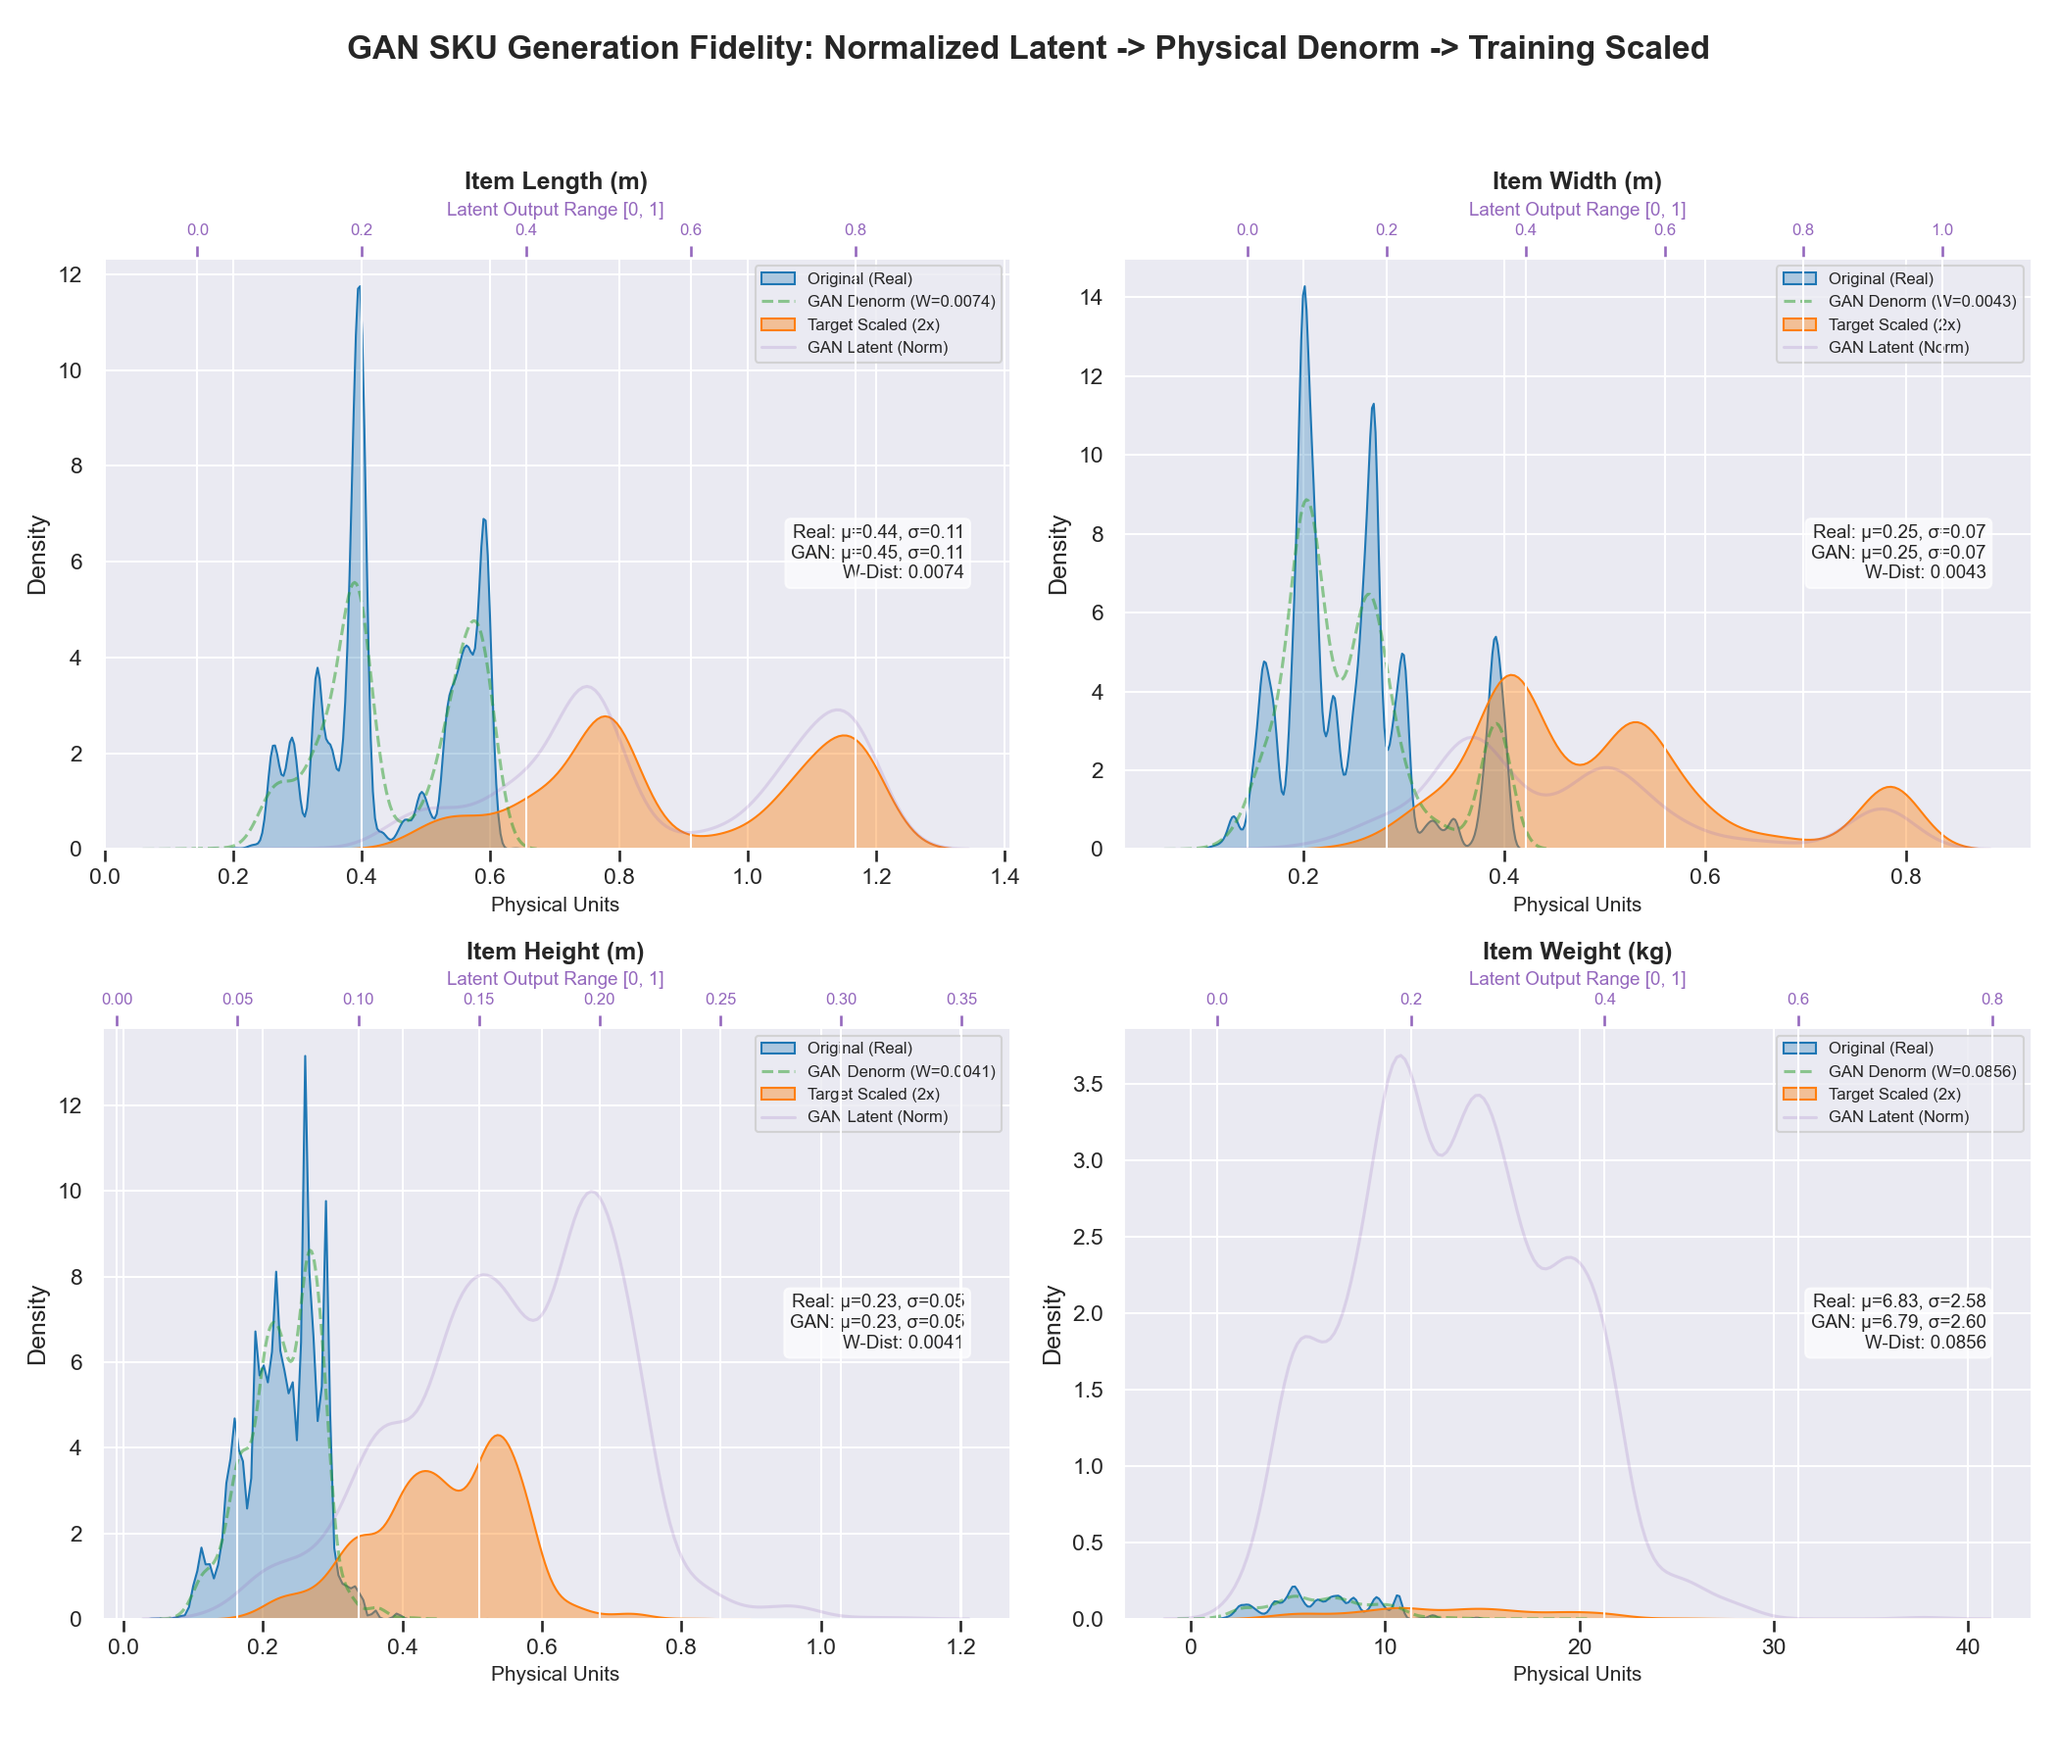
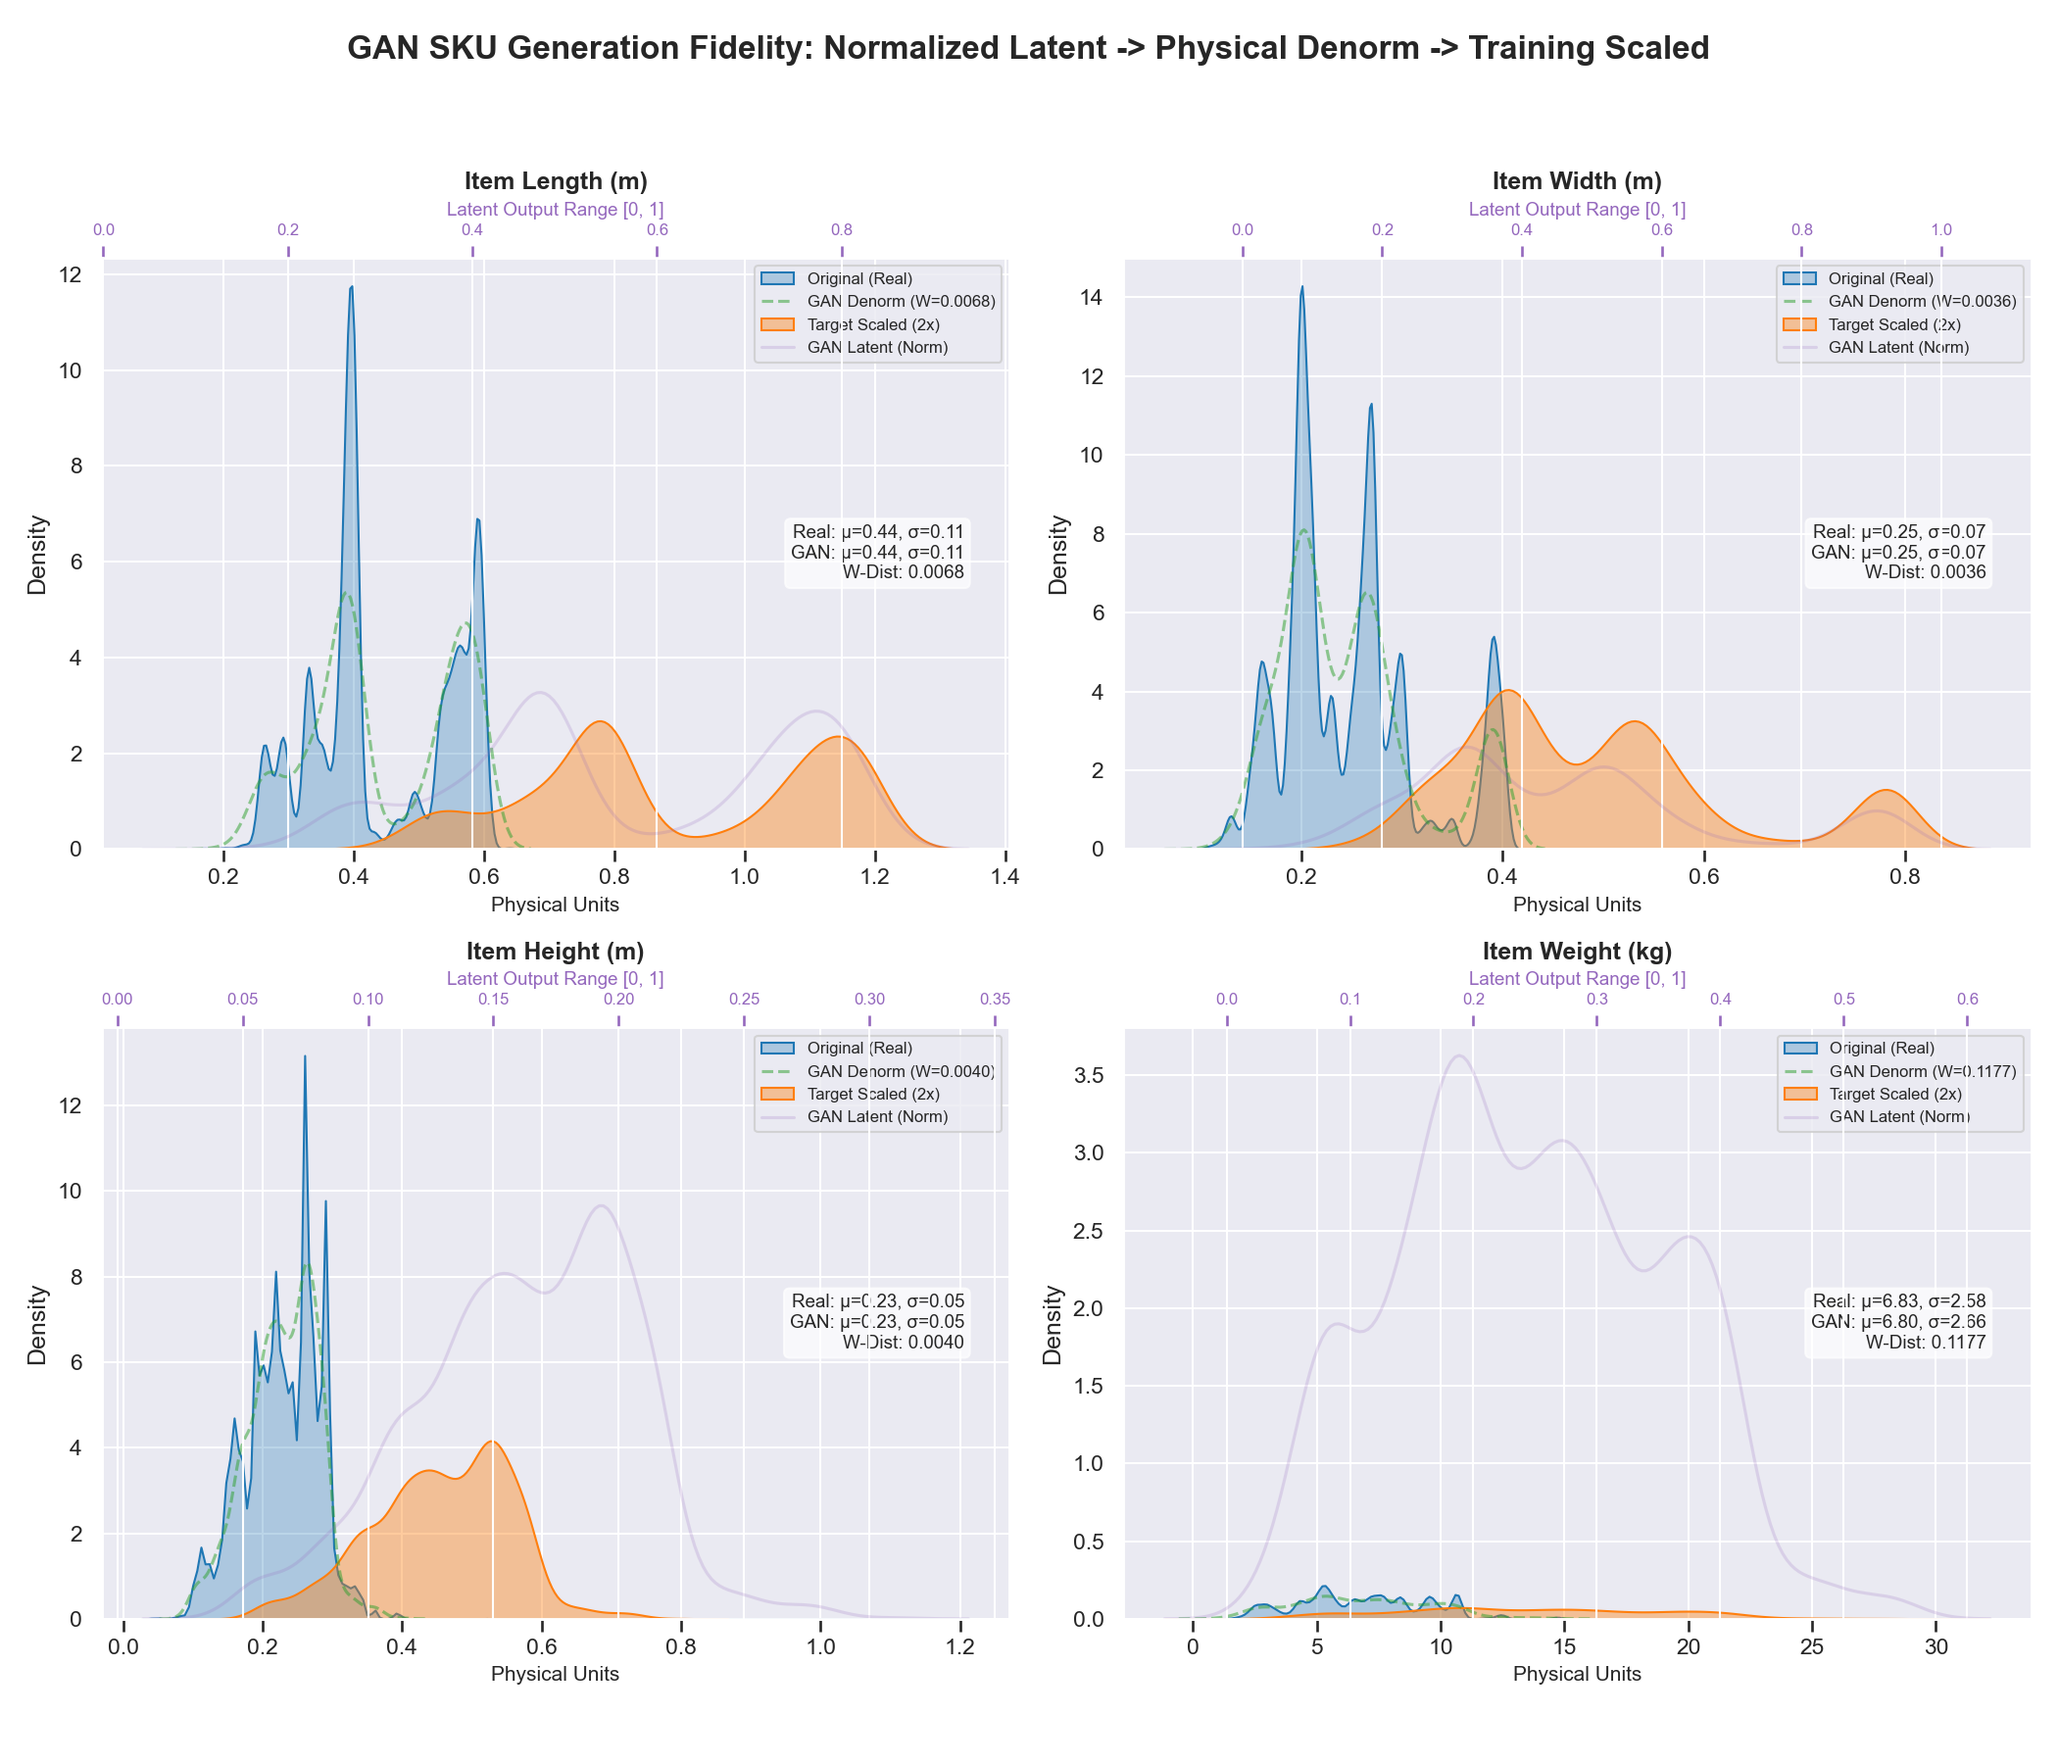
refactor: reorganize sample fidelity dashboard tables to group physical attributes and SKU metadata

diff --git a/evaluate_metrics.py b/evaluate_metrics.py
@@ -839,8 +839,8 @@ def generate_gan_metrics_report():
         
         lines.append("\n*(Format: Length, Width, Height, Weight)*\n")
         
-        lines.append("\n## 5. Sample Fidelity Dashboard (Compact Matrix)")
-        lines.append("This section maps the transformation of 5 random samples from their physical source to the latent model space and back to the reconstructed synthetic item.\n")
+        lines.append("\n## 5. Sample Fidelity Dashboard (Organized)")
+        lines.append("This section tracks 5 random items throughout the synthetic lifecycle, with attributes grouped by physical dimensions and SKU metadata.\n")
         
         orig_df = samples["original_df"]
         for i in range(5):
@@ -848,17 +848,17 @@ def generate_gan_metrics_report():
             n = samples["synth_norm"][i]
             d = samples["synth_denorm"][i]
             
-            lines.append(f"### Sample {i+1} Fidelity Trace")
-            lines.append("| Attribute | Real Value | Latent [0-1] | Reconstructed | Type / Unit |")
-            lines.append("|:---|:---:|:---:|:---:|:---|")
-            lines.append(f"| **Length**     | {o_row['length']:.3f} | {n[0]:.6f} | {d[0]:.3f} | f32 / meters |")
-            lines.append(f"| **Width**      | {o_row['width']:.3f} | {n[1]:.6f} | {d[1]:.3f} | f32 / meters |")
-            lines.append(f"| **Height**     | {o_row['height']:.3f} | {n[2]:.6f} | {d[2]:.3f} | f32 / meters |")
-            lines.append(f"| **Weight**     | {o_row['weight']:.3f} | {n[3]:.6f} | {d[3]:.3f} | f32 / kg     |")
-            lines.append(f"| Category       | {o_row['category']} | -- | -- | obj / str    |")
-            lines.append(f"| Fragility      | {bool(o_row['fragility'])} | -- | -- | i64 / bool   |")
-            lines.append(f"| Stackable      | {bool(o_row['stackable'])} | -- | -- | i64 / bool   |")
-            lines.append(f"| Can Rotate     | {bool(o_row['can_rotate'])} | -- | -- | i64 / bool   |")
+            lines.append(f"### Sample {i+1} Fidelity Profile")
+            lines.append("| Component | Attribute | Original (Real) | GAN Latent [0-1] | GAN Denormalized | Metadata |")
+            lines.append("| :--- | :--- | :---: | :---: | :---: | :--- |")
+            lines.append(f"| **Physical** | Length     | {o_row['length']:.3f} | {n[0]:.6f} | {d[0]:.3f} | meters (f32) |")
+            lines.append(f"| **Physical** | Width      | {o_row['width']:.3f}  | {n[1]:.6f} | {d[1]:.3f} | meters (f32) |")
+            lines.append(f"| **Physical** | Height     | {o_row['height']:.3f} | {n[2]:.6f} | {d[2]:.3f} | meters (f32) |")
+            lines.append(f"| **Physical** | Weight     | {o_row['weight']:.3f} | {n[3]:.6f} | {d[3]:.3f} | kg (f32)     |")
+            lines.append(f"| **SKU Meta** | Category   | {o_row['category']}   | -- | -- | object (str) |")
+            lines.append(f"| **SKU Meta** | Fragility  | {bool(o_row['fragility'])} | -- | -- | int64 (bool) |")
+            lines.append(f"| **SKU Meta** | Stackable  | {bool(o_row['stackable'])} | -- | -- | int64 (bool) |")
+            lines.append(f"| **SKU Meta** | Can Rotate | {bool(o_row['can_rotate'])} | -- | -- | int64 (bool) |")
             lines.append("\n---\n")
 
 

diff --git a/Documents/04_Machine_Learning/Performance_Metrics/model_metrics_gan.md b/Documents/04_Machine_Learning/Performance_Metrics/model_metrics_gan.md
@@ -1,6 +1,6 @@
 # GAN Performance & Generation Report
 
-> Auto-generated on **2026-03-31 05:28**
+> Auto-generated on **2026-03-31 05:33**
 
 ---
 
@@ -40,10 +40,10 @@ Comparing Gaussian density overlaps and statistical moments between real and syn
 
 | Dimension | Real Mean (μ) | GAN Mean (μ) | Real Std (σ) | GAN Std (σ) | Wasserstein Dist |
 |:---|:---:|:---:|:---:|:---:|:---:|
-| Item Length | 0.443 | 0.447 | 0.108 | 0.108 | **0.00744** |
-| Item Width | 0.248 | 0.249 | 0.069 | 0.068 | **0.00430** |
-| Item Height | 0.227 | 0.230 | 0.053 | 0.050 | **0.00410** |
-| Item Weight | 6.827 | 6.793 | 2.579 | 2.598 | **0.08562** |
+| Item Length | 0.443 | 0.445 | 0.108 | 0.110 | **0.00684** |
+| Item Width | 0.248 | 0.247 | 0.069 | 0.068 | **0.00364** |
+| Item Height | 0.227 | 0.228 | 0.053 | 0.050 | **0.00405** |
+| Item Weight | 6.827 | 6.797 | 2.579 | 2.665 | **0.11774** |
 
 > **Note**: A lower Wasserstein Distance indicates higher distributional realism.
 
@@ -55,84 +55,84 @@ This table provides a 4-way comparison of 5 random item samples tracking the syn
 
 | Sample | Original (Real) | GAN Normalized [0-1] | GAN Denormalized | Synthetic (2x Scaled) |
 |:---|:---|:---|:---|:---|
-| 1 | (0.59, 0.20, 0.21, 7.7) | (0.383, 0.322, 0.213, 0.196) | (0.33, 0.20, 0.29, 5.6) | (0.67, 0.41, 0.57, 11.1) |
-| 2 | (0.55, 0.28, 0.11, 8.4) | (0.479, 0.926, 0.126, 0.159) | (0.39, 0.40, 0.19, 4.6) | (0.78, 0.79, 0.37, 9.3) |
-| 3 | (0.55, 0.28, 0.11, 8.4) | (0.382, 0.336, 0.216, 0.187) | (0.33, 0.21, 0.29, 5.3) | (0.67, 0.42, 0.58, 10.7) |
-| 4 | (0.49, 0.13, 0.21, 5.1) | (0.447, 0.401, 0.200, 0.207) | (0.37, 0.23, 0.27, 5.8) | (0.75, 0.46, 0.54, 11.7) |
-| 5 | (0.49, 0.13, 0.21, 5.1) | (0.263, 0.191, 0.139, 0.083) | (0.26, 0.16, 0.20, 2.7) | (0.52, 0.32, 0.40, 5.5) |
+| 1 | (0.59, 0.20, 0.21, 7.7) | (0.415, 0.314, 0.188, 0.145) | (0.35, 0.20, 0.26, 4.3) | (0.71, 0.40, 0.52, 8.6) |
+| 2 | (0.55, 0.28, 0.11, 8.4) | (0.361, 0.276, 0.216, 0.151) | (0.32, 0.19, 0.29, 4.5) | (0.64, 0.38, 0.58, 8.9) |
+| 3 | (0.55, 0.28, 0.11, 8.4) | (0.380, 0.278, 0.218, 0.172) | (0.33, 0.19, 0.29, 5.0) | (0.66, 0.38, 0.58, 9.9) |
+| 4 | (0.49, 0.13, 0.21, 5.1) | (0.468, 0.577, 0.150, 0.162) | (0.39, 0.28, 0.21, 4.7) | (0.77, 0.57, 0.43, 9.4) |
+| 5 | (0.49, 0.13, 0.21, 5.1) | (0.799, 0.308, 0.150, 0.246) | (0.59, 0.20, 0.21, 6.8) | (1.17, 0.40, 0.43, 13.6) |
 
 *(Format: Length, Width, Height, Weight)*
 
 
-## 5. Sample Fidelity Dashboard (Compact Matrix)
-This section maps the transformation of 5 random samples from their physical source to the latent model space and back to the reconstructed synthetic item.
+## 5. Sample Fidelity Dashboard (Organized)
+This section tracks 5 random items throughout the synthetic lifecycle, with attributes grouped by physical dimensions and SKU metadata.
 
-### Sample 1 Fidelity Trace
-| Attribute | Real Value | Latent [0-1] | Reconstructed | Type / Unit |
-|:---|:---:|:---:|:---:|:---|
-| **Length**     | 0.590 | 0.382591 | 0.333 | f32 / meters |
-| **Width**      | 0.200 | 0.322347 | 0.203 | f32 / meters |
-| **Height**     | 0.210 | 0.212936 | 0.287 | f32 / meters |
-| **Weight**     | 7.670 | 0.196205 | 5.569 | f32 / kg     |
-| Category       | bakery products | -- | -- | obj / str    |
-| Fragility      | False | -- | -- | i64 / bool   |
-| Stackable      | True | -- | -- | i64 / bool   |
-| Can Rotate     | True | -- | -- | i64 / bool   |
-
----
-
-### Sample 2 Fidelity Trace
-| Attribute | Real Value | Latent [0-1] | Reconstructed | Type / Unit |
-|:---|:---:|:---:|:---:|:---|
-| **Length**     | 0.550 | 0.479437 | 0.392 | f32 / meters |
-| **Width**      | 0.280 | 0.926063 | 0.396 | f32 / meters |
-| **Height**     | 0.110 | 0.125990 | 0.186 | f32 / meters |
-| **Weight**     | 8.400 | 0.158898 | 4.640 | f32 / kg     |
-| Category       | confectionery | -- | -- | obj / str    |
-| Fragility      | False | -- | -- | i64 / bool   |
-| Stackable      | True | -- | -- | i64 / bool   |
-| Can Rotate     | True | -- | -- | i64 / bool   |
+### Sample 1 Fidelity Profile
+| Component | Attribute | Original (Real) | GAN Latent [0-1] | GAN Denormalized | Metadata |
+| :--- | :--- | :---: | :---: | :---: | :--- |
+| **Physical** | Length     | 0.590 | 0.415037 | 0.353 | meters (f32) |
+| **Physical** | Width      | 0.200  | 0.313882 | 0.200 | meters (f32) |
+| **Physical** | Height     | 0.210 | 0.187908 | 0.258 | meters (f32) |
+| **Physical** | Weight     | 7.670 | 0.145461 | 4.305 | kg (f32)     |
+| **SKU Meta** | Category   | bakery products   | -- | -- | object (str) |
+| **SKU Meta** | Fragility  | False | -- | -- | int64 (bool) |
+| **SKU Meta** | Stackable  | True | -- | -- | int64 (bool) |
+| **SKU Meta** | Can Rotate | True | -- | -- | int64 (bool) |
 
 ---
 
-### Sample 3 Fidelity Trace
-| Attribute | Real Value | Latent [0-1] | Reconstructed | Type / Unit |
-|:---|:---:|:---:|:---:|:---|
-| **Length**     | 0.550 | 0.381959 | 0.333 | f32 / meters |
-| **Width**      | 0.280 | 0.336348 | 0.208 | f32 / meters |
-| **Height**     | 0.110 | 0.215530 | 0.290 | f32 / meters |
-| **Weight**     | 8.400 | 0.186649 | 5.331 | f32 / kg     |
-| Category       | confectionery | -- | -- | obj / str    |
-| Fragility      | False | -- | -- | i64 / bool   |
-| Stackable      | True | -- | -- | i64 / bool   |
-| Can Rotate     | True | -- | -- | i64 / bool   |
+### Sample 2 Fidelity Profile
+| Component | Attribute | Original (Real) | GAN Latent [0-1] | GAN Denormalized | Metadata |
+| :--- | :--- | :---: | :---: | :---: | :--- |
+| **Physical** | Length     | 0.550 | 0.360815 | 0.320 | meters (f32) |
+| **Physical** | Width      | 0.280  | 0.275562 | 0.188 | meters (f32) |
+| **Physical** | Height     | 0.110 | 0.216027 | 0.291 | meters (f32) |
+| **Physical** | Weight     | 8.400 | 0.151292 | 4.450 | kg (f32)     |
+| **SKU Meta** | Category   | confectionery   | -- | -- | object (str) |
+| **SKU Meta** | Fragility  | False | -- | -- | int64 (bool) |
+| **SKU Meta** | Stackable  | True | -- | -- | int64 (bool) |
+| **SKU Meta** | Can Rotate | True | -- | -- | int64 (bool) |
 
 ---
 
-### Sample 4 Fidelity Trace
-| Attribute | Real Value | Latent [0-1] | Reconstructed | Type / Unit |
-|:---|:---:|:---:|:---:|:---|
-| **Length**     | 0.490 | 0.447398 | 0.373 | f32 / meters |
-| **Width**      | 0.130 | 0.400756 | 0.228 | f32 / meters |
-| **Height**     | 0.210 | 0.199667 | 0.272 | f32 / meters |
-| **Weight**     | 5.110 | 0.207451 | 5.850 | f32 / kg     |
-| Category       | candy | -- | -- | obj / str    |
-| Fragility      | False | -- | -- | i64 / bool   |
-| Stackable      | True | -- | -- | i64 / bool   |
-| Can Rotate     | True | -- | -- | i64 / bool   |
+### Sample 3 Fidelity Profile
+| Component | Attribute | Original (Real) | GAN Latent [0-1] | GAN Denormalized | Metadata |
+| :--- | :--- | :---: | :---: | :---: | :--- |
+| **Physical** | Length     | 0.550 | 0.380225 | 0.332 | meters (f32) |
+| **Physical** | Width      | 0.280  | 0.278101 | 0.189 | meters (f32) |
+| **Physical** | Height     | 0.110 | 0.217579 | 0.292 | meters (f32) |
+| **Physical** | Weight     | 8.400 | 0.171955 | 4.965 | kg (f32)     |
+| **SKU Meta** | Category   | confectionery   | -- | -- | object (str) |
+| **SKU Meta** | Fragility  | False | -- | -- | int64 (bool) |
+| **SKU Meta** | Stackable  | True | -- | -- | int64 (bool) |
+| **SKU Meta** | Can Rotate | True | -- | -- | int64 (bool) |
 
 ---
 
-### Sample 5 Fidelity Trace
-| Attribute | Real Value | Latent [0-1] | Reconstructed | Type / Unit |
-|:---|:---:|:---:|:---:|:---|
-| **Length**     | 0.490 | 0.262661 | 0.260 | f32 / meters |
-| **Width**      | 0.130 | 0.190584 | 0.161 | f32 / meters |
-| **Height**     | 0.210 | 0.138657 | 0.201 | f32 / meters |
-| **Weight**     | 5.110 | 0.082635 | 2.739 | f32 / kg     |
-| Category       | candy | -- | -- | obj / str    |
-| Fragility      | False | -- | -- | i64 / bool   |
-| Stackable      | True | -- | -- | i64 / bool   |
-| Can Rotate     | True | -- | -- | i64 / bool   |
+### Sample 4 Fidelity Profile
+| Component | Attribute | Original (Real) | GAN Latent [0-1] | GAN Denormalized | Metadata |
+| :--- | :--- | :---: | :---: | :---: | :--- |
+| **Physical** | Length     | 0.490 | 0.467556 | 0.385 | meters (f32) |
+| **Physical** | Width      | 0.130  | 0.577093 | 0.285 | meters (f32) |
+| **Physical** | Height     | 0.210 | 0.150028 | 0.214 | meters (f32) |
+| **Physical** | Weight     | 5.110 | 0.162233 | 4.723 | kg (f32)     |
+| **SKU Meta** | Category   | candy   | -- | -- | object (str) |
+| **SKU Meta** | Fragility  | False | -- | -- | int64 (bool) |
+| **SKU Meta** | Stackable  | True | -- | -- | int64 (bool) |
+| **SKU Meta** | Can Rotate | True | -- | -- | int64 (bool) |
+
+---
+
+### Sample 5 Fidelity Profile
+| Component | Attribute | Original (Real) | GAN Latent [0-1] | GAN Denormalized | Metadata |
+| :--- | :--- | :---: | :---: | :---: | :--- |
+| **Physical** | Length     | 0.490 | 0.799002 | 0.587 | meters (f32) |
+| **Physical** | Width      | 0.130  | 0.308023 | 0.199 | meters (f32) |
+| **Physical** | Height     | 0.210 | 0.149714 | 0.214 | meters (f32) |
+| **Physical** | Weight     | 5.110 | 0.246071 | 6.812 | kg (f32)     |
+| **SKU Meta** | Category   | candy   | -- | -- | object (str) |
+| **SKU Meta** | Fragility  | False | -- | -- | int64 (bool) |
+| **SKU Meta** | Stackable  | True | -- | -- | int64 (bool) |
+| **SKU Meta** | Can Rotate | True | -- | -- | int64 (bool) |
 
 ---
